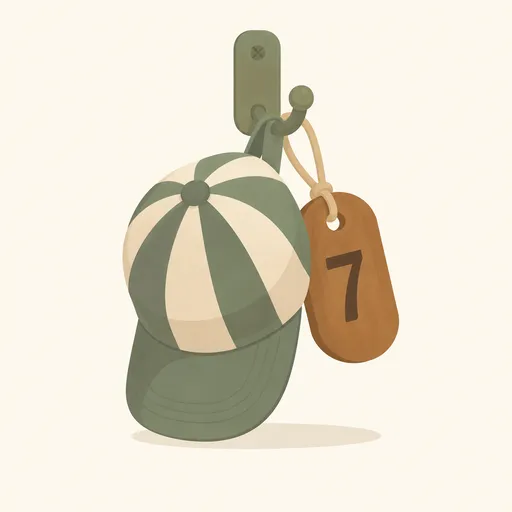
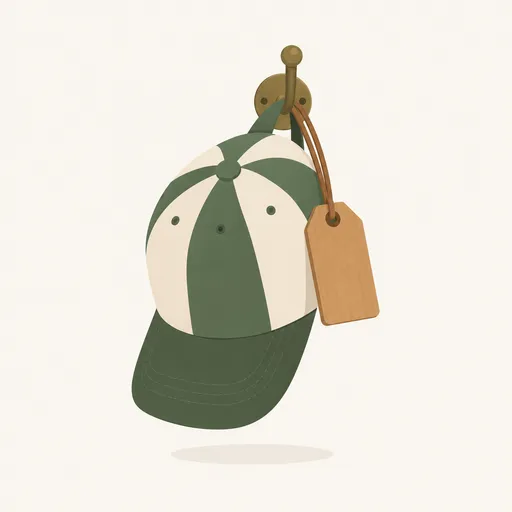
fix(sheet): 시트가 다시 뽑을 때 옛 그림을 보여 주고 있었다
숫자가 박힌 일곱 장을 고쳐 다시 뽑고 시트를 열었는데 **예전 그림이 그대로**
나왔다. 「7」도 「317」도 그 자리에 있었다.

scripts/sheet.ts가 변환 결과(public/concepts/*.webp)를 먼저 보고, 없을 때만
원본(.images/*.png)을 보기 때문이었다. 새로 뽑은 PNG는 있는데 webp가 아직
옛것이라 옛것을 붙인 것이다.

**그림을 눈으로 보는 자리가 고칠 때 하필 안 보인다는 뜻이다.** 처음 뽑을
때는 webp가 없으니 PNG를 보여 주어 멀쩡하고, 다시 뽑을 때만 거짓말을 한다 —
정확히 틀린 그림을 고치는 회차에서만 눈이 감긴다.

시각을 견주어 **새것**을 쓰게 했다. 둘 다 있으면 mtime이 큰 쪽이다.

고친 일곱 장도 함께 넣는다. 다시 붙여 보니 다 깨끗하다 — 나무 표와 배번과
열쇠고리가 비었고, 절차는 숫자 대신 동그라미·세모·별로 갔고, 성적 점수는
빈 칸에 두른 빨간 동그라미가 됐다.

경고 0건, 통과, 오류 0.

Changed region(s): [[0.2188, 0.0312, 0.7812, 0.875]]

diff --git a/scripts/sheet.ts b/scripts/sheet.ts
@@ -22,7 +22,7 @@
  * `public/concepts/<slug>.webp`인데, 둘 중 있는 것을 쓴다. 그래야
  * `pnpm genimg`이 끝나자마자 — `pnpm image`를 돌리기 전에 — 시트를 만들 수 있다.
  */
-import { existsSync, mkdirSync } from 'node:fs'
+import { existsSync, mkdirSync, statSync } from 'node:fs'
 import { join } from 'node:path'
 import sharp from 'sharp'
 
@@ -49,12 +49,26 @@ if (slugs.length === 0) {
   process.exit(1)
 }
 
-/** 변환 결과가 있으면 그것을, 없으면 원본 PNG를 쓴다 */
+/**
+ * 둘 중 **새것**을 쓴다.
+ *
+ * 예전에는 변환 결과(`webp`)를 먼저 봤다. 그래서 **다시 뽑을 때 시트가
+ * 거짓말을 했다** — 2026-09-21에 숫자가 박힌 일곱 장을 고쳐 다시 뽑고 시트를
+ * 열었는데 예전 그림이 그대로 나왔다. `.images/*.png`는 새것인데 `webp`가
+ * 아직 옛것이었기 때문이다.
+ *
+ * 그림을 눈으로 보는 자리가 **고칠 때 하필 안 보인다**는 뜻이라 뒤집었다.
+ * 시각을 견주어 새것을 쓴다.
+ */
 function source(slug: string): string {
   const webp = join('public', 'concepts', `${slug}.webp`)
-  if (existsSync(webp)) return webp
   const png = join('.images', `${slug}.png`)
-  if (existsSync(png)) return png
+  const hasWebp = existsSync(webp)
+  const hasPng = existsSync(png)
+  if (hasWebp && hasPng)
+    return statSync(png).mtimeMs > statSync(webp).mtimeMs ? png : webp
+  if (hasWebp) return webp
+  if (hasPng) return png
   console.error(`그림이 없습니다: ${slug} (${webp} · ${png})`)
   process.exit(1)
 }
